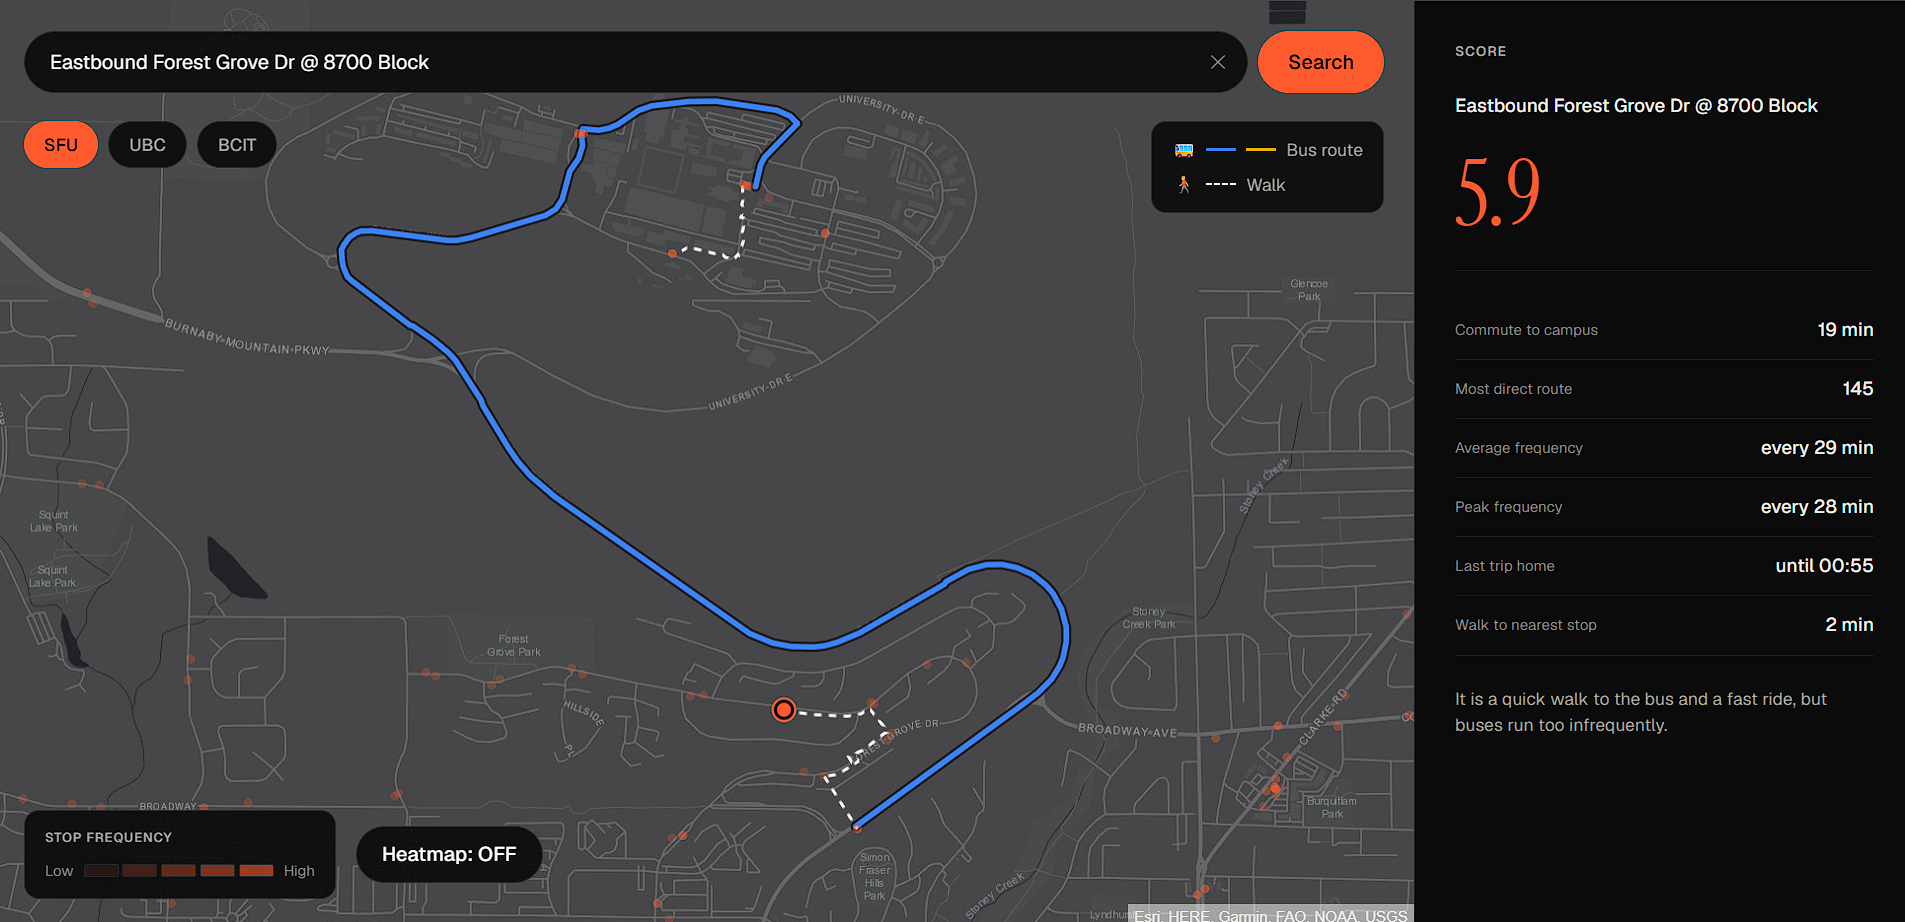
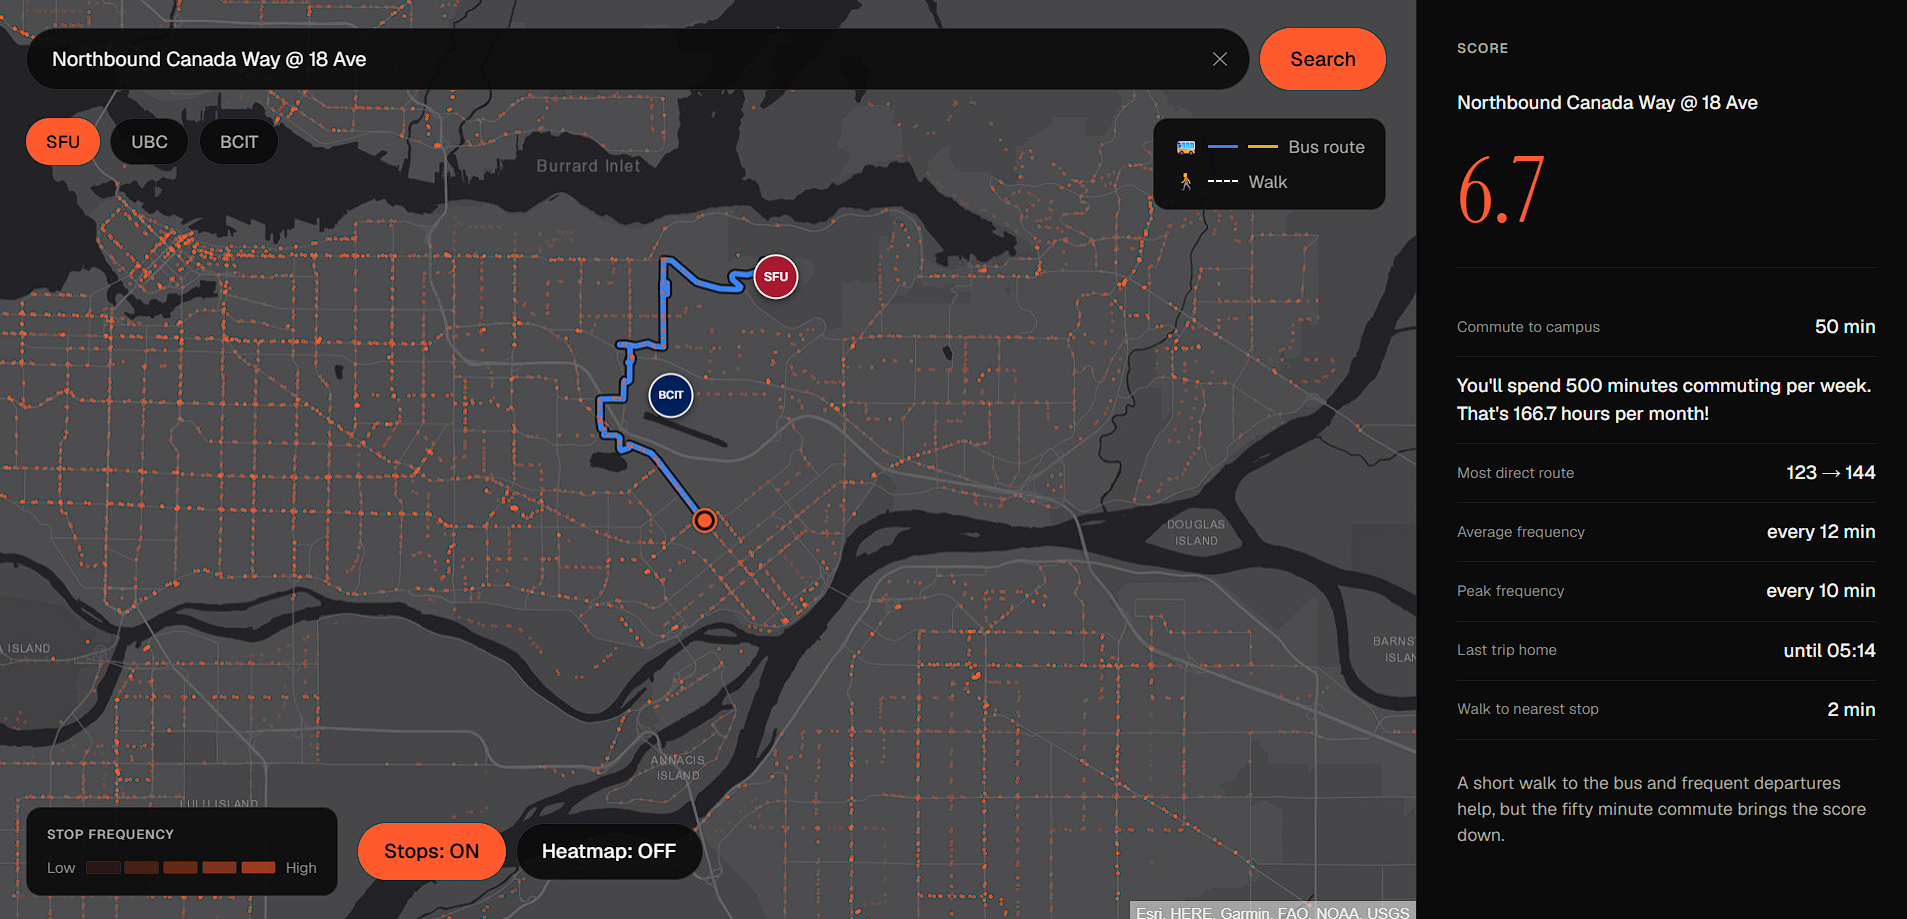
docs: update hero screenshot and explain the score shown
New screenshot: 6.7/10 for an address on Canada Way, commuting to
SFU, with the campus badge markers and route visible. Added a short
paragraph walking through why it scored 6.7 (fast walk + frequent
buses vs. a long ride), using the real numbers from the screenshot
instead of just describing the feature abstractly.

diff --git a/README.md b/README.md
@@ -6,6 +6,8 @@ A neighbourhood transit scorer for students hunting off-campus housing. Get a 0-
 
 ![Headway scoring a real address, with the route and factor breakdown](docs/route-screenshot.png)
 
+That's a real search, not a mockup: an address on Northbound Canada Way scores **6.7/10** for a commute to SFU. The score isn't just "50 minutes = bad" — it's a weighted blend of the four factors shown in the panel. A 2-minute walk to the nearest stop and buses every 10–12 minutes both pull the score up; the 50-minute ride itself pulls it down. Headway shows that breakdown instead of hiding it behind one number, so you can see *why* it scored 6.7, not just that it did — including the actual bus routes (123 → 144) and a plain-English verdict summarizing the trade-off.
+
 **Live:** [www.headwayhome.tech](https://www.headwayhome.tech/app) (custom domain) · also at [headway-frontend-production.up.railway.app](https://headway-frontend-production.up.railway.app/app) — backend API at [headway-backend-production-582c.up.railway.app/docs](https://headway-backend-production-582c.up.railway.app/docs)
 
 ---
